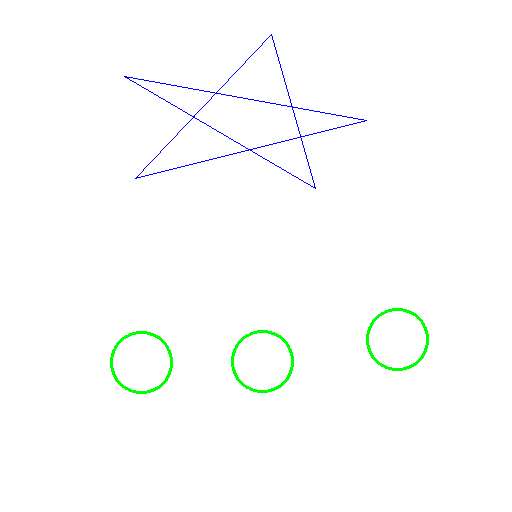
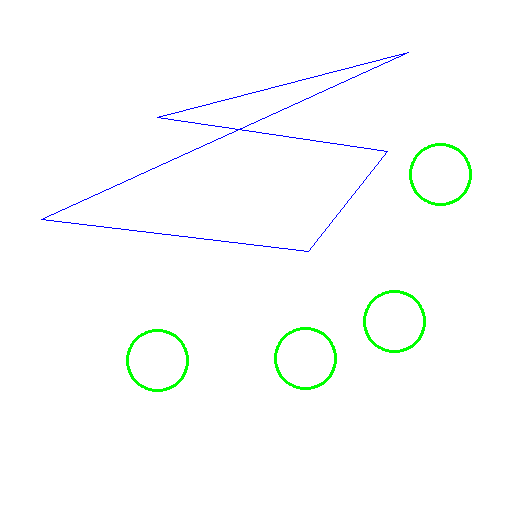
perspective 코드 추가

diff --git a/perspective.py b/perspective.py
@@ -1,0 +1,109 @@
+import cv2, sys
+import numpy as np
+
+radius = 25
+
+#직선과 원을 그리는 함수
+def drawROI(img, corners):
+    global radius
+    
+    #이미지 복사해서 레이어를 하나 추가(가이드라인과 모서리 포인트를 추가로 그려주는)
+    cpy = img.copy()
+    #컬러 지정
+    c1 = (192,192,255) #원의 색상
+    c2 = (128,128,255) #직선의 색상
+    
+    lineWidth = 2
+    
+    #원을 그린다.
+    for pt in corners:
+        cv2.circle(cpy, tuple(pt.astype(int)), radius, c1, -1, cv2.LINE_AA)
+    
+    #4개 모서리 라인 그리기
+    cv2.line(cpy, tuple(corners[0].astype(int)), tuple(corners[1].astype(int)), c2, lineWidth, cv2.LINE_AA)
+    cv2.line(cpy, tuple(corners[1].astype(int)), tuple(corners[2].astype(int)), c2, lineWidth, cv2.LINE_AA)
+    cv2.line(cpy, tuple(corners[2].astype(int)), tuple(corners[3].astype(int)), c2, lineWidth, cv2.LINE_AA)
+    cv2.line(cpy, tuple(corners[3].astype(int)), tuple(corners[0].astype(int)), c2, lineWidth, cv2.LINE_AA)
+    
+    #alpha=0.3, beta=0.7, gamma=0
+    disp = cv2.addWeighted(img, 0.3, cpy, 0.7, 0)
+
+    return disp
+    
+# 마우스 좌표를 얻기 위해 콜백 함수 사용
+def mouse_callback(event, x, y, flags, param):
+    global srcQuad, dragSrc, img, radius, ptOld
+    
+    #왼쪽 버튼을 누르고 있을 때
+    if event == cv2.EVENT_LBUTTONDOWN:
+        for i in range(4):
+            #현재 마우스 위치가 4개 모서리 포인트 중, 원 안에 들어가는가?
+            if cv2.norm(srcQuad[i]-(x,y)) < radius:
+                dragSrc[i] = True
+                #마우스로 이동하기 전의 위치
+                ptOld = (x, y)
+                #만약에 현재 이동할 모서리를 확인하면 for문을 빠져 나옴
+                break
+    if event == cv2.EVENT_LBUTTONUP:
+        for i in range(4):
+            #dragSrc는 현재 이동중인 모서리 포인트를 True
+            dragSrc[i] = False
+    #모서리 원과 직선을 새로 그려서 업데이트
+    if event == cv2.EVENT_MOUSEMOVE:
+        for i in range(4):
+            if dragSrc[i]:
+                #ptOld(x,y)
+                dx = x - ptOld[0]
+                dy = y - ptOld[1]
+                srcQuad[i] += (dx, dy)
+                #창에 업데이트
+                cpy = drawROI(img, srcQuad)
+                cv2.imshow('img', cpy)
+                ptOld = (x,y)
+                break
+
+img = cv2.imread('data2/book.jpg')
+
+if img is None:
+    sys.exit('Image load failed')
+
+h, w, _ = img.shape
+print(w, h)
+
+spare = 30
+#다각형의 좌표를 그릴 때는 시계방향으로
+srcQuad = np.array([[spare,spare],[w-spare,spare],[w-spare,h-spare],[spare,h-spare]], np.float32)
+#변환될 좌표
+dstQuad = np.array([[0,0],[w-1,0],[w-1,h-1],[0,h-1]], np.float32)
+#마우스 포인터로 4개 좌표를 이동했는데 체크하는 플래그
+dragSrc = [False, False, False, False]
+
+#처음 한번은 직접 화면에 drawROI 함수를 호출해서 그려준다.
+
+disp = drawROI(img, srcQuad)
+
+
+
+cv2.namedWindow('img')
+cv2.setMouseCallback('img', mouse_callback, [img])
+
+cv2.imshow('img',disp)
+# cv2.imshow('dst',dst)
+
+while True:
+    #키입력 Enter -> 이미지 변환, ESC -> 종료 키 입력
+    key = cv2.waitKey()
+    if key == 13: # ASCII 테이블 참조, ENTER key
+        break
+    if key == 27: # ESC
+        cv2.destroyAllWindows()
+        sys.exit()
+
+#변환 행렬 생성
+#srcQuad는 mouse_callback 함수에서 update
+pers = cv2.getPerspectiveTransform(srcQuad, dstQuad)
+dst = cv2.warpPerspective(img, pers, (w,h))
+
+cv2.imshow('dst', dst)
+cv2.waitKey()
+cv2.destroyAllWindows()

diff --git a/perspective_t.py b/perspective_t.py
@@ -1,0 +1,101 @@
+import cv2, sys
+import numpy as np
+
+
+radius = 25
+
+# 직선과 원을 그리는 함수
+def drawROI(img, corners):
+    global radius
+    cpy = img.copy()
+    
+    # 컬러 지정
+    c1 = (192,192,255) #원의 색상
+    c2 = (128,128,255) #직선의 색상
+    
+    lineWidth = 2
+    
+    #원을 그린다.(4개 좌표점이 있다.)
+    for pt in corners:     
+        cv2.circle(cpy, tuple(pt.astype(int)), radius, c1, -1,cv2.LINE_AA)
+
+    # 4개 모서리 라인 그리기
+    cv2.line(cpy, tuple(corners[0].astype(int)),tuple(corners[1].astype(int)),c2, lineWidth, cv2.LINE_AA)
+    cv2.line(cpy, tuple(corners[1].astype(int)),tuple(corners[2].astype(int)),c2, lineWidth, cv2.LINE_AA)
+    cv2.line(cpy, tuple(corners[2].astype(int)),tuple(corners[3].astype(int)),c2, lineWidth, cv2.LINE_AA)
+    cv2.line(cpy, tuple(corners[3].astype(int)),tuple(corners[0].astype(int)),c2, lineWidth, cv2.LINE_AA)
+    
+    # alpha=0.3, beta=0.7, gamma=0
+    disp = cv2.addWeighted(img,0.3,cpy,0.7,0)
+
+    return disp
+
+
+#마우스 좌표를 얻기 위해 콜백함수 사용
+def mouse_callback(event, x, y, flags, param):
+    global srcQuad, dragSrc, img2, radius, ptOld
+    
+    # 왼쪽 버튼을 누르고 있을때
+    if event == cv2.EVENT_LBUTTONDOWN:
+        for i in range(4):
+            # 현재 마우스 위치가 4개 모서리 포인트중 원안에 들어가는가?
+            if cv2.norm(srcQuad[i]-(x,y))<radius:
+                dragSrc[i] = True
+                # 마우스로 이동하기 전의 위치
+                ptOld = (x,y)
+                # 만약에 현재 이동할 모서리를 확인하면 for문을 빠져 나옴
+                break
+    
+    if event==cv2.EVENT_LBUTTONUP:
+        for i in range(4):
+            # dragSrc는 현재 이동중이 모서리 포인트를 True
+            dragSrc[i] = False
+    
+    # 모서리 원과 직선을 새로 그려서 업데이트
+    if event==cv2.EVENT_MOUSEMOVE:
+        for i in range(4):
+            if dragSrc[i]:
+                dx = x - ptOld[0] #ptOld(x,y)
+                dy = y - ptOld[1]
+                
+                srcQuad[i] += (dx,dy)
+                # 창에 업데이트
+                cpy = drawROI(img2, srcQuad)
+                cv2.imshow('img',cpy)
+                ptOld = (x,y)
+                break
+  
+
+
+img = cv2.imread('data2/book.jpg')
+
+if img is None:
+    sys.exit('Image load failed')
+    
+img2 = cv2.resize(img,(0,0),None,fx=0.5,fy=0.5)
+
+w, h = img2.shape[1], img2.shape[0] 
+print(w,h)
+
+# 다각형의 좌표를 그릴때는 시계방향으로()
+spare = 50
+srcQuad = np.array([[spare,spare],[spare,h-spare],[w-spare,h-spare],[w-spare,spare]], np.float32)
+
+# 변환될 좌표
+dstQuad = np.array([[0,0],[w-1,0],[w-1,h-1],[0, h-1]],np.float32)
+# 마우스 포인터로 4개 좌표를 이동했는지 체크하는 플래그
+dragSrc = [False,False,False,False]
+
+#처음 한번은 직접 화면에 drawROI함수를 호출해서 그려준다.
+disp = drawROI(img2,srcQuad)
+
+# 변환 행렬 생성
+# pers = cv2.getPerspectiveTransform(srcQuad,dstQuad)
+# dst = cv2.warpPerspective(img2,pers,(w,h))
+
+cv2.namedWindow('img')
+cv2.setMouseCallback('img', mouse_callback,[img2])
+cv2.imshow('img',disp)
+#cv2.imshow('dst',dst)
+cv2.waitKey()
+cv2.destroyAllWindows()
